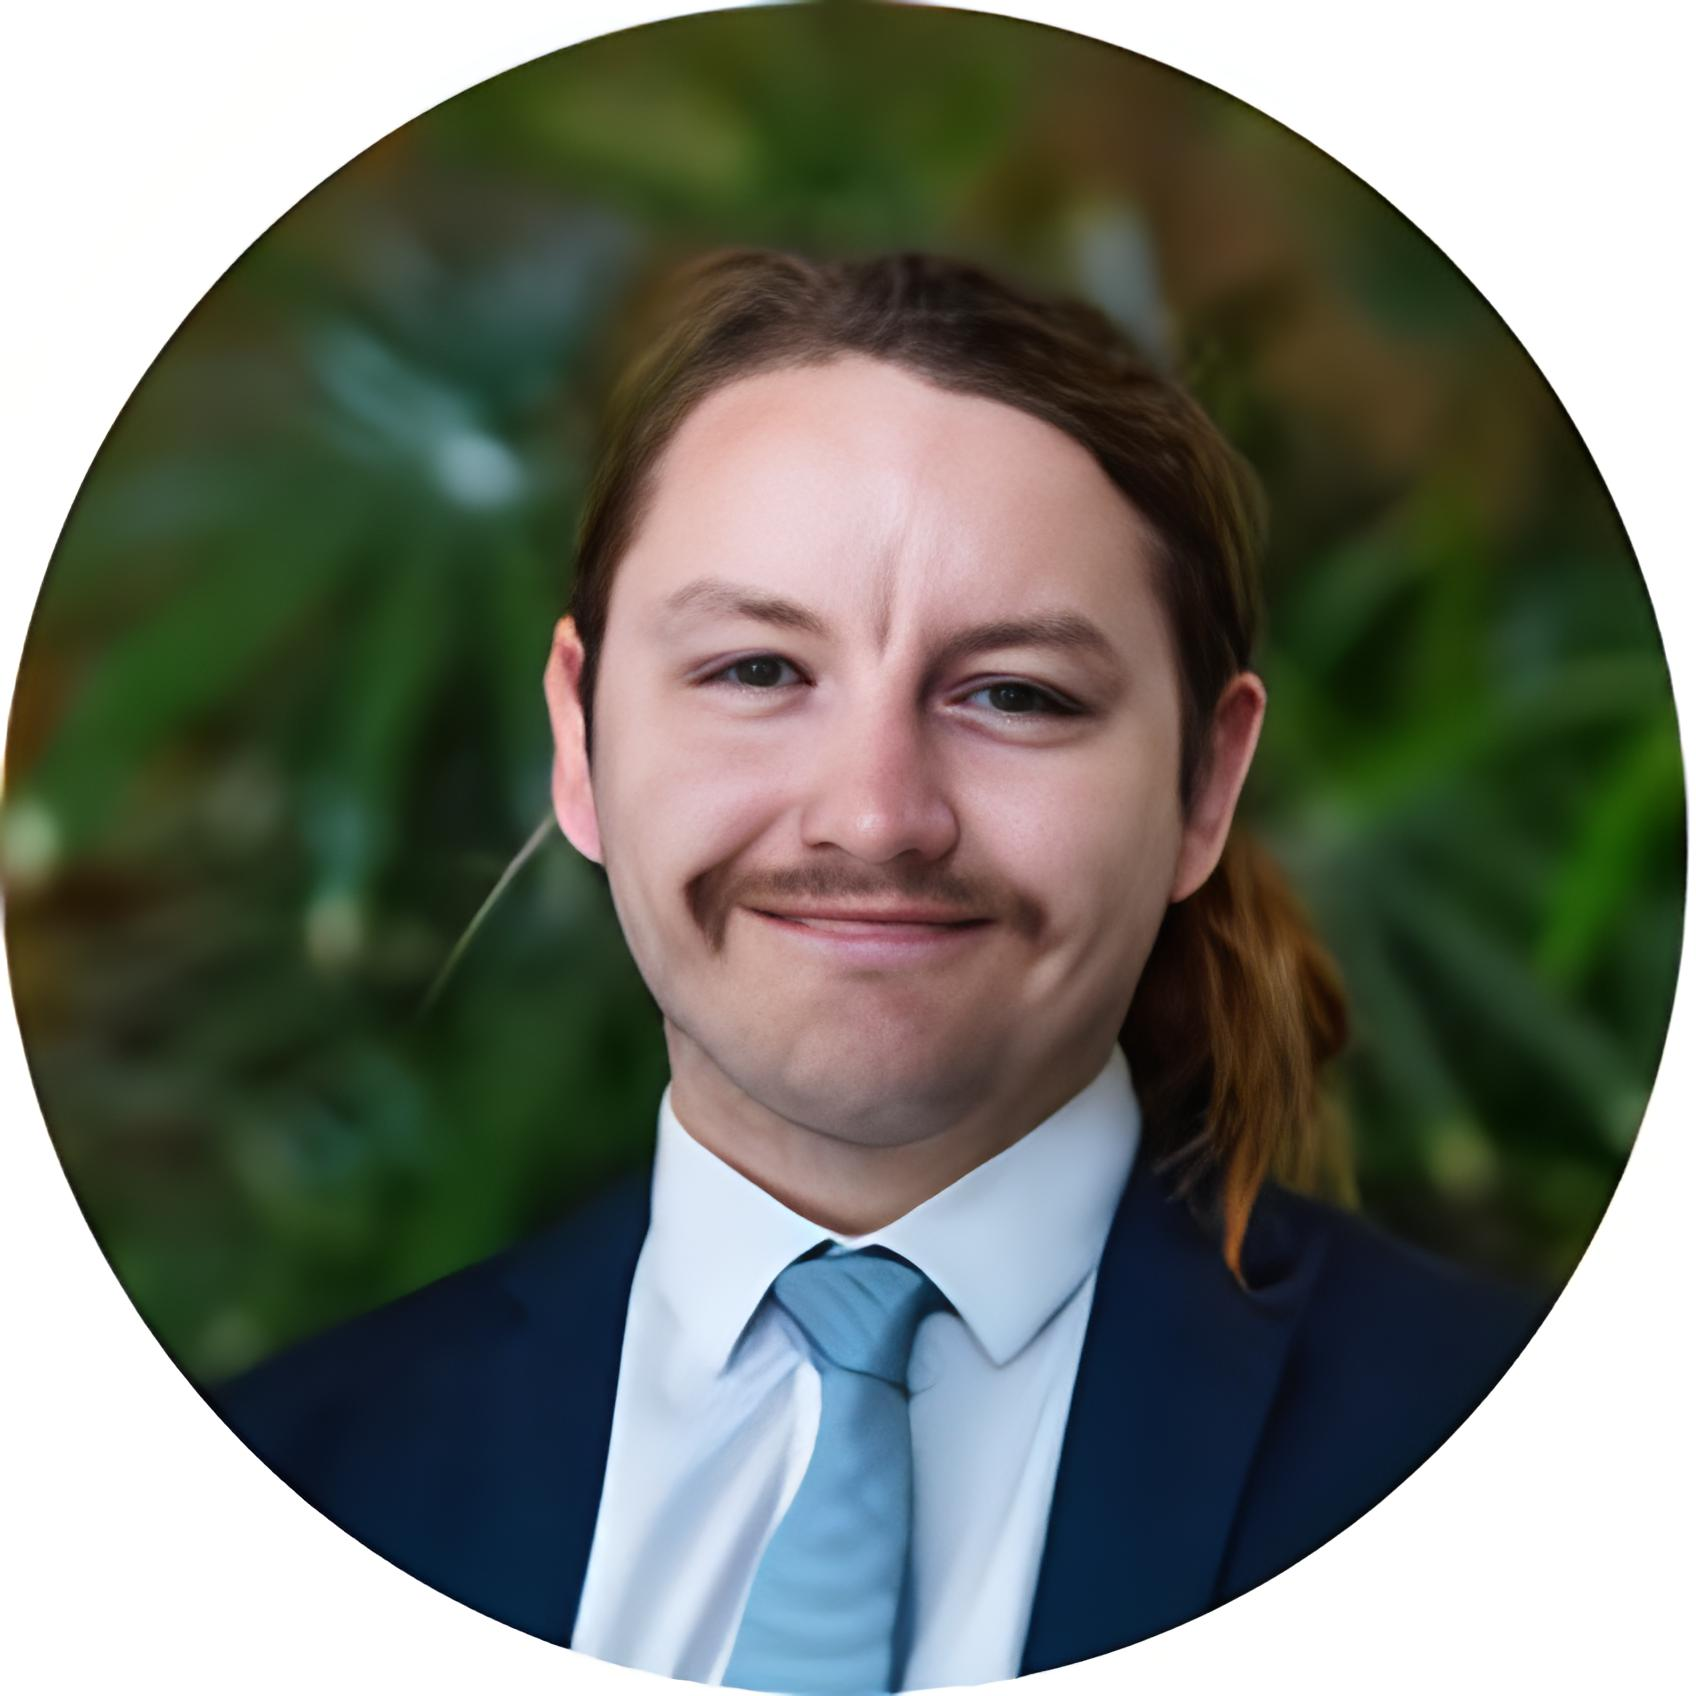
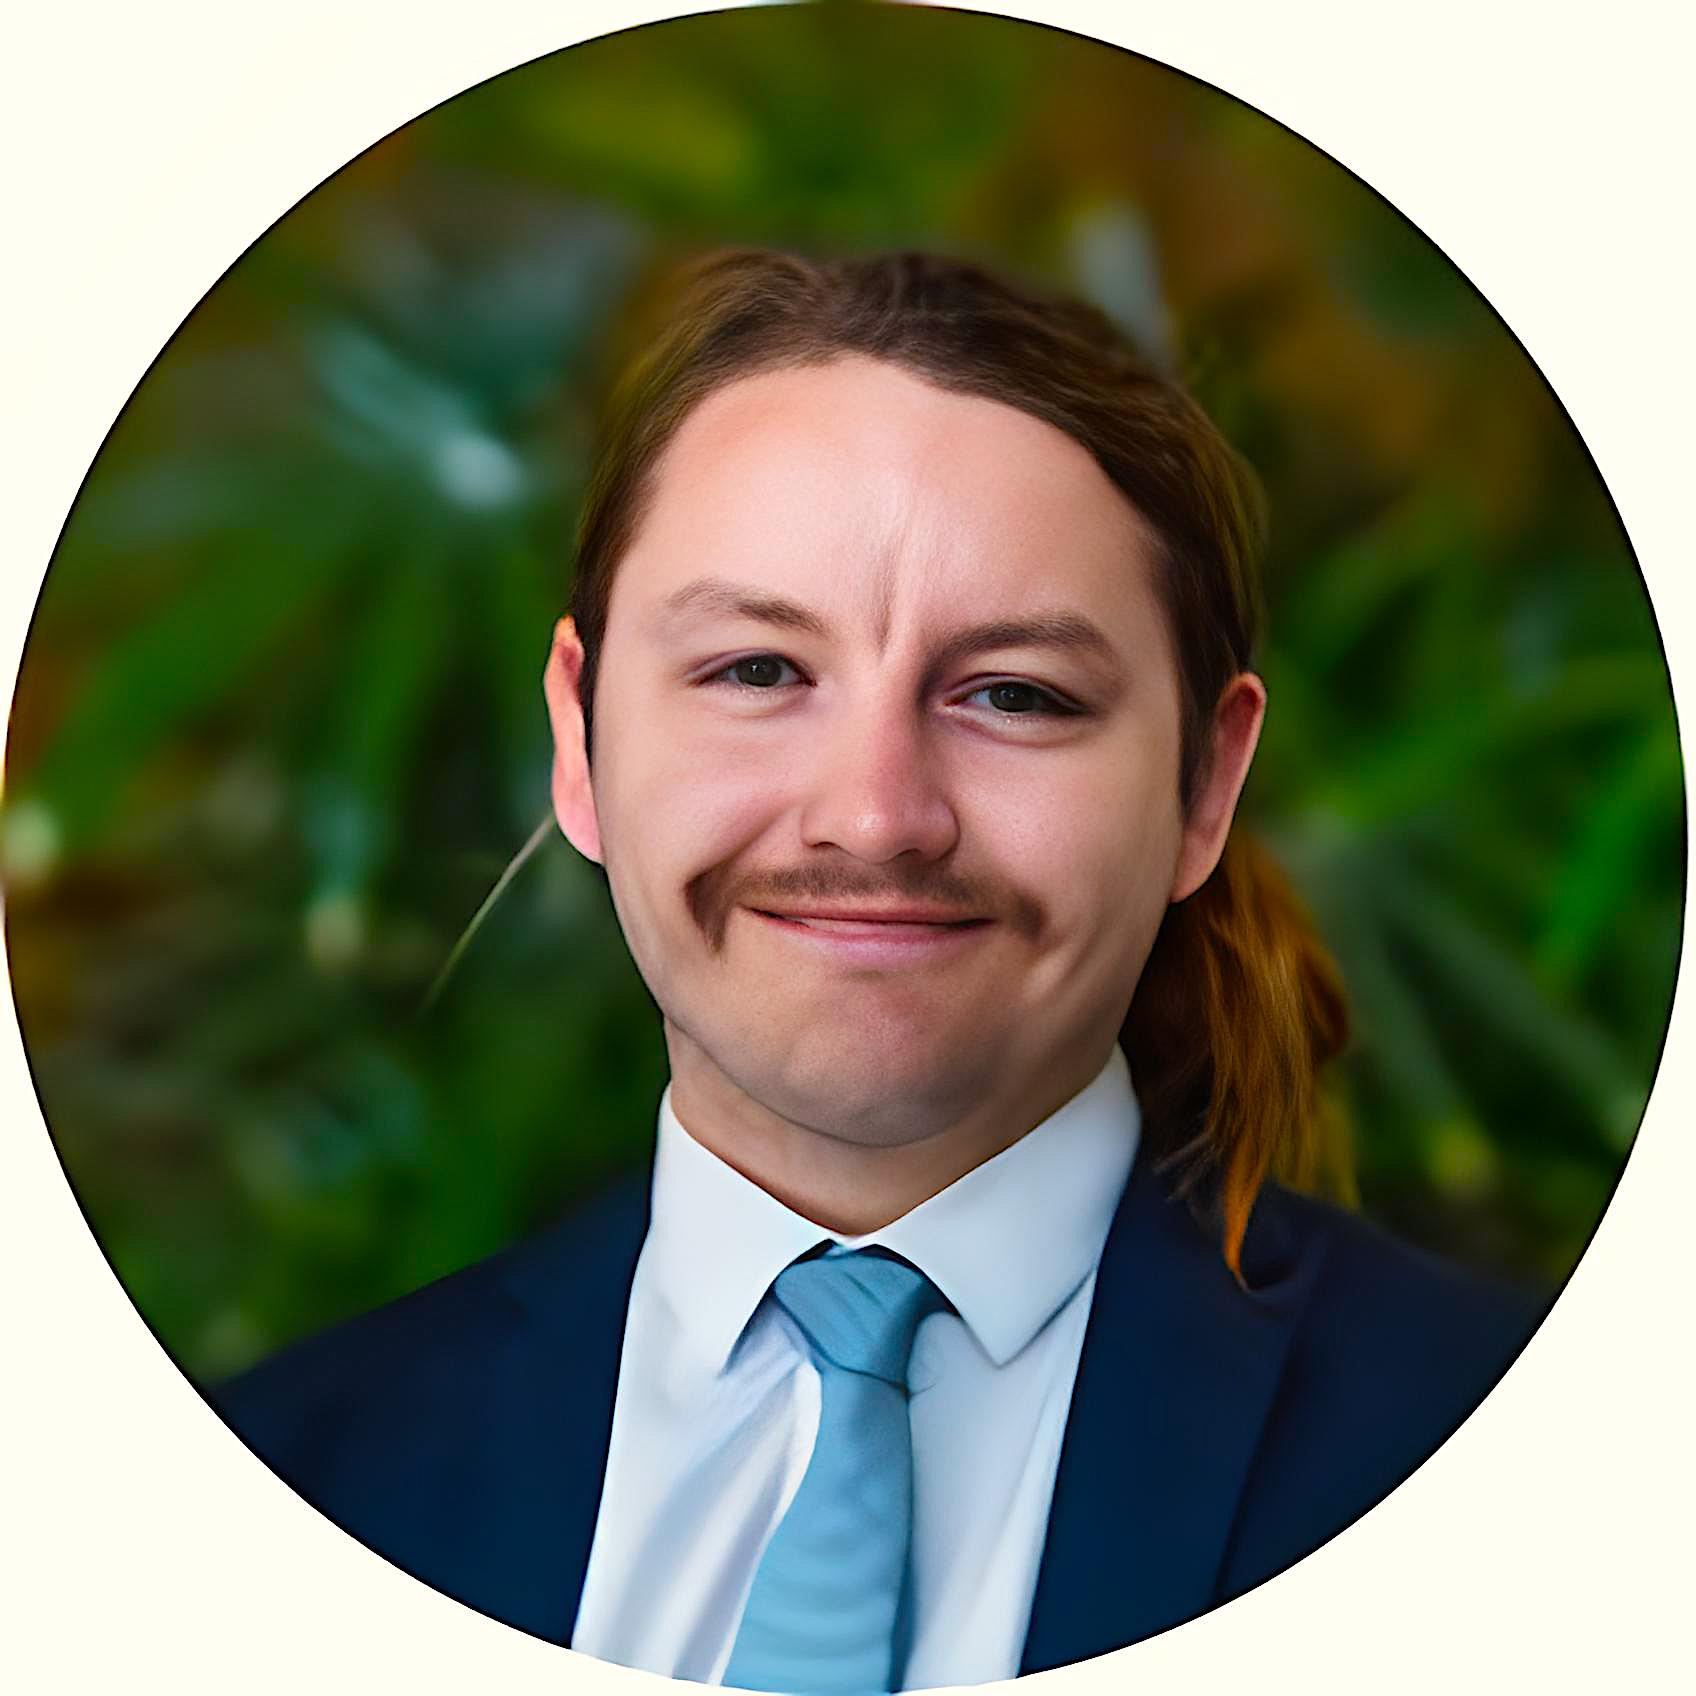
fix Steve profile picture quality

diff --git a/about.html b/about.html
@@ -285,7 +285,7 @@
         <div class="container">
             <div class="row">
                 <div class="img-width-100 col-lg-4 col-md-6 col-sm-12 col-xs-12">
-                    <img src="img/team/Steve-e4.jpg" class="img-responsive img-circle" alt="team">
+                    <img src="img/team/Steve-e8.jpg" class="img-responsive img-circle" alt="team">
                 </div>
                 <div class="inner-title-dark col-lg-8 col-md-6 col-sm-12 col-xs-12 mb45--sm">
                     <h3 class="team-title">Steve Bickley</h3>

diff --git a/index.html b/index.html
@@ -248,7 +248,7 @@
                     <div class="team-designation">Co-Founder/Technology</div>
                 </div>
                 <div class="team-box-layout1">
-                    <img src="img/team/Steve-e4.jpg " class="img-responsive img-circle " alt="team">
+                    <img src="img/team/Steve-e8.jpg " class="img-responsive img-circle " alt="team">
                     <h3 class="team-title">Steve Bickley</h3>
                     <div class="team-designation">Co-Founder/Operations</div>
                 </div>
